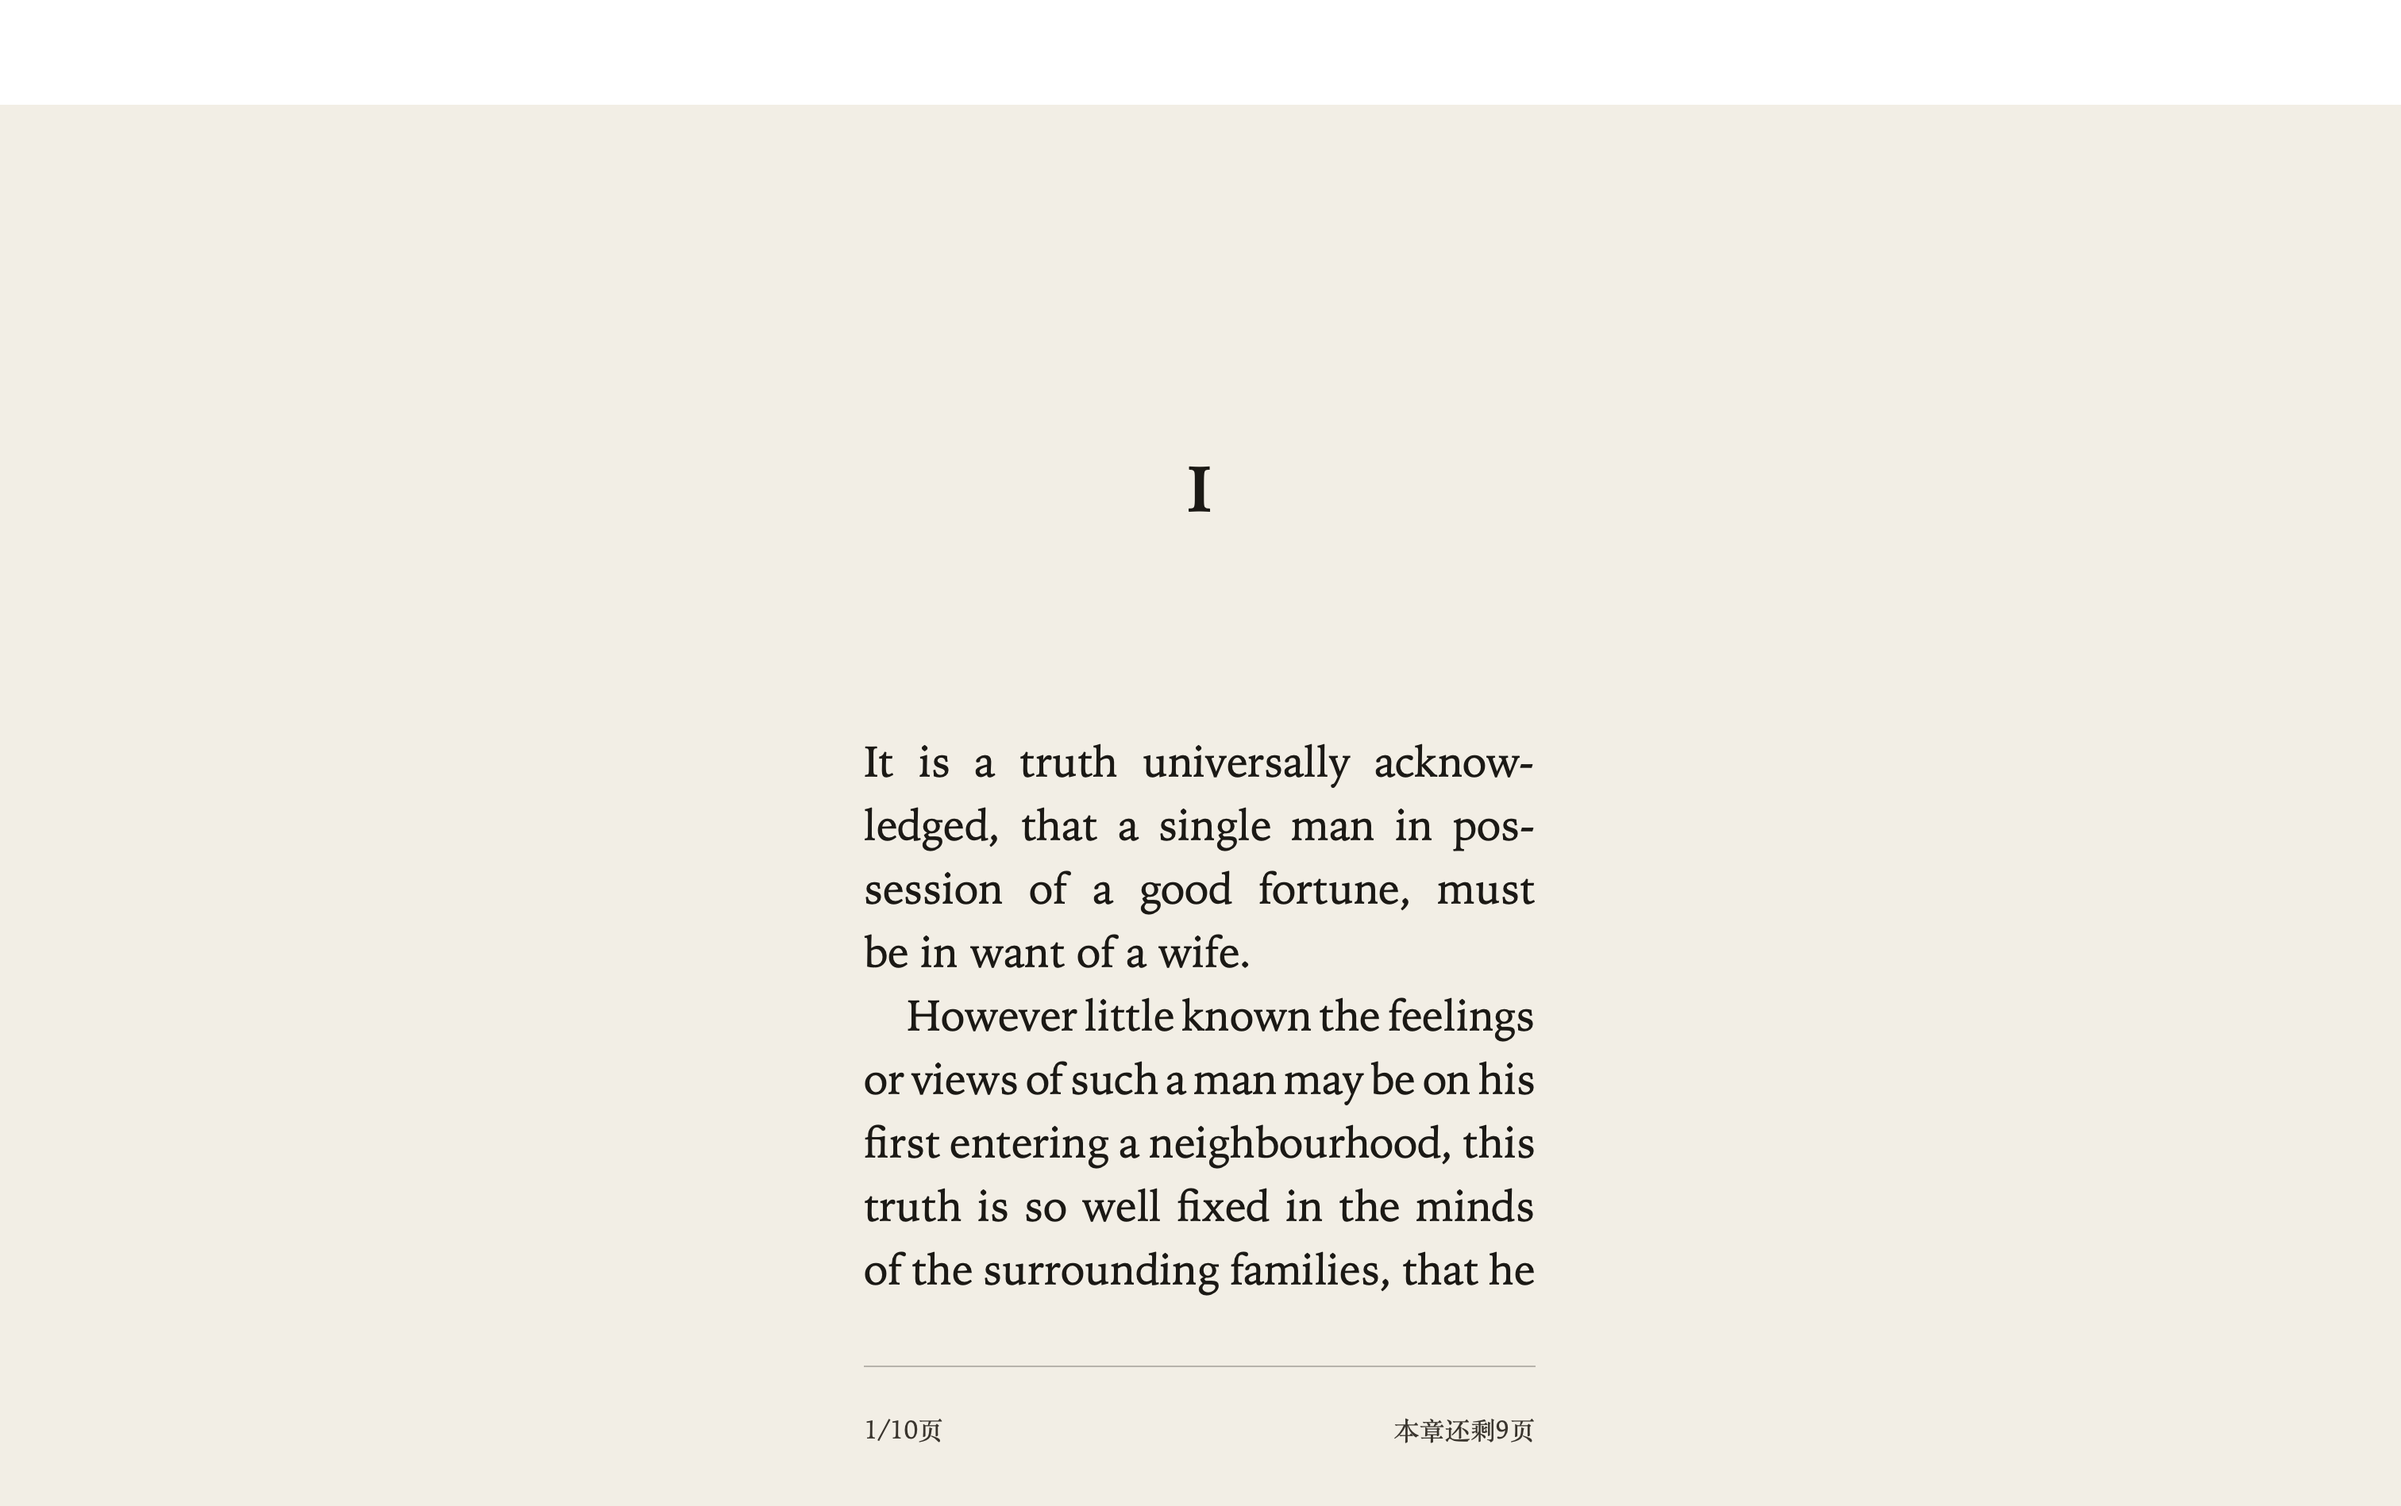
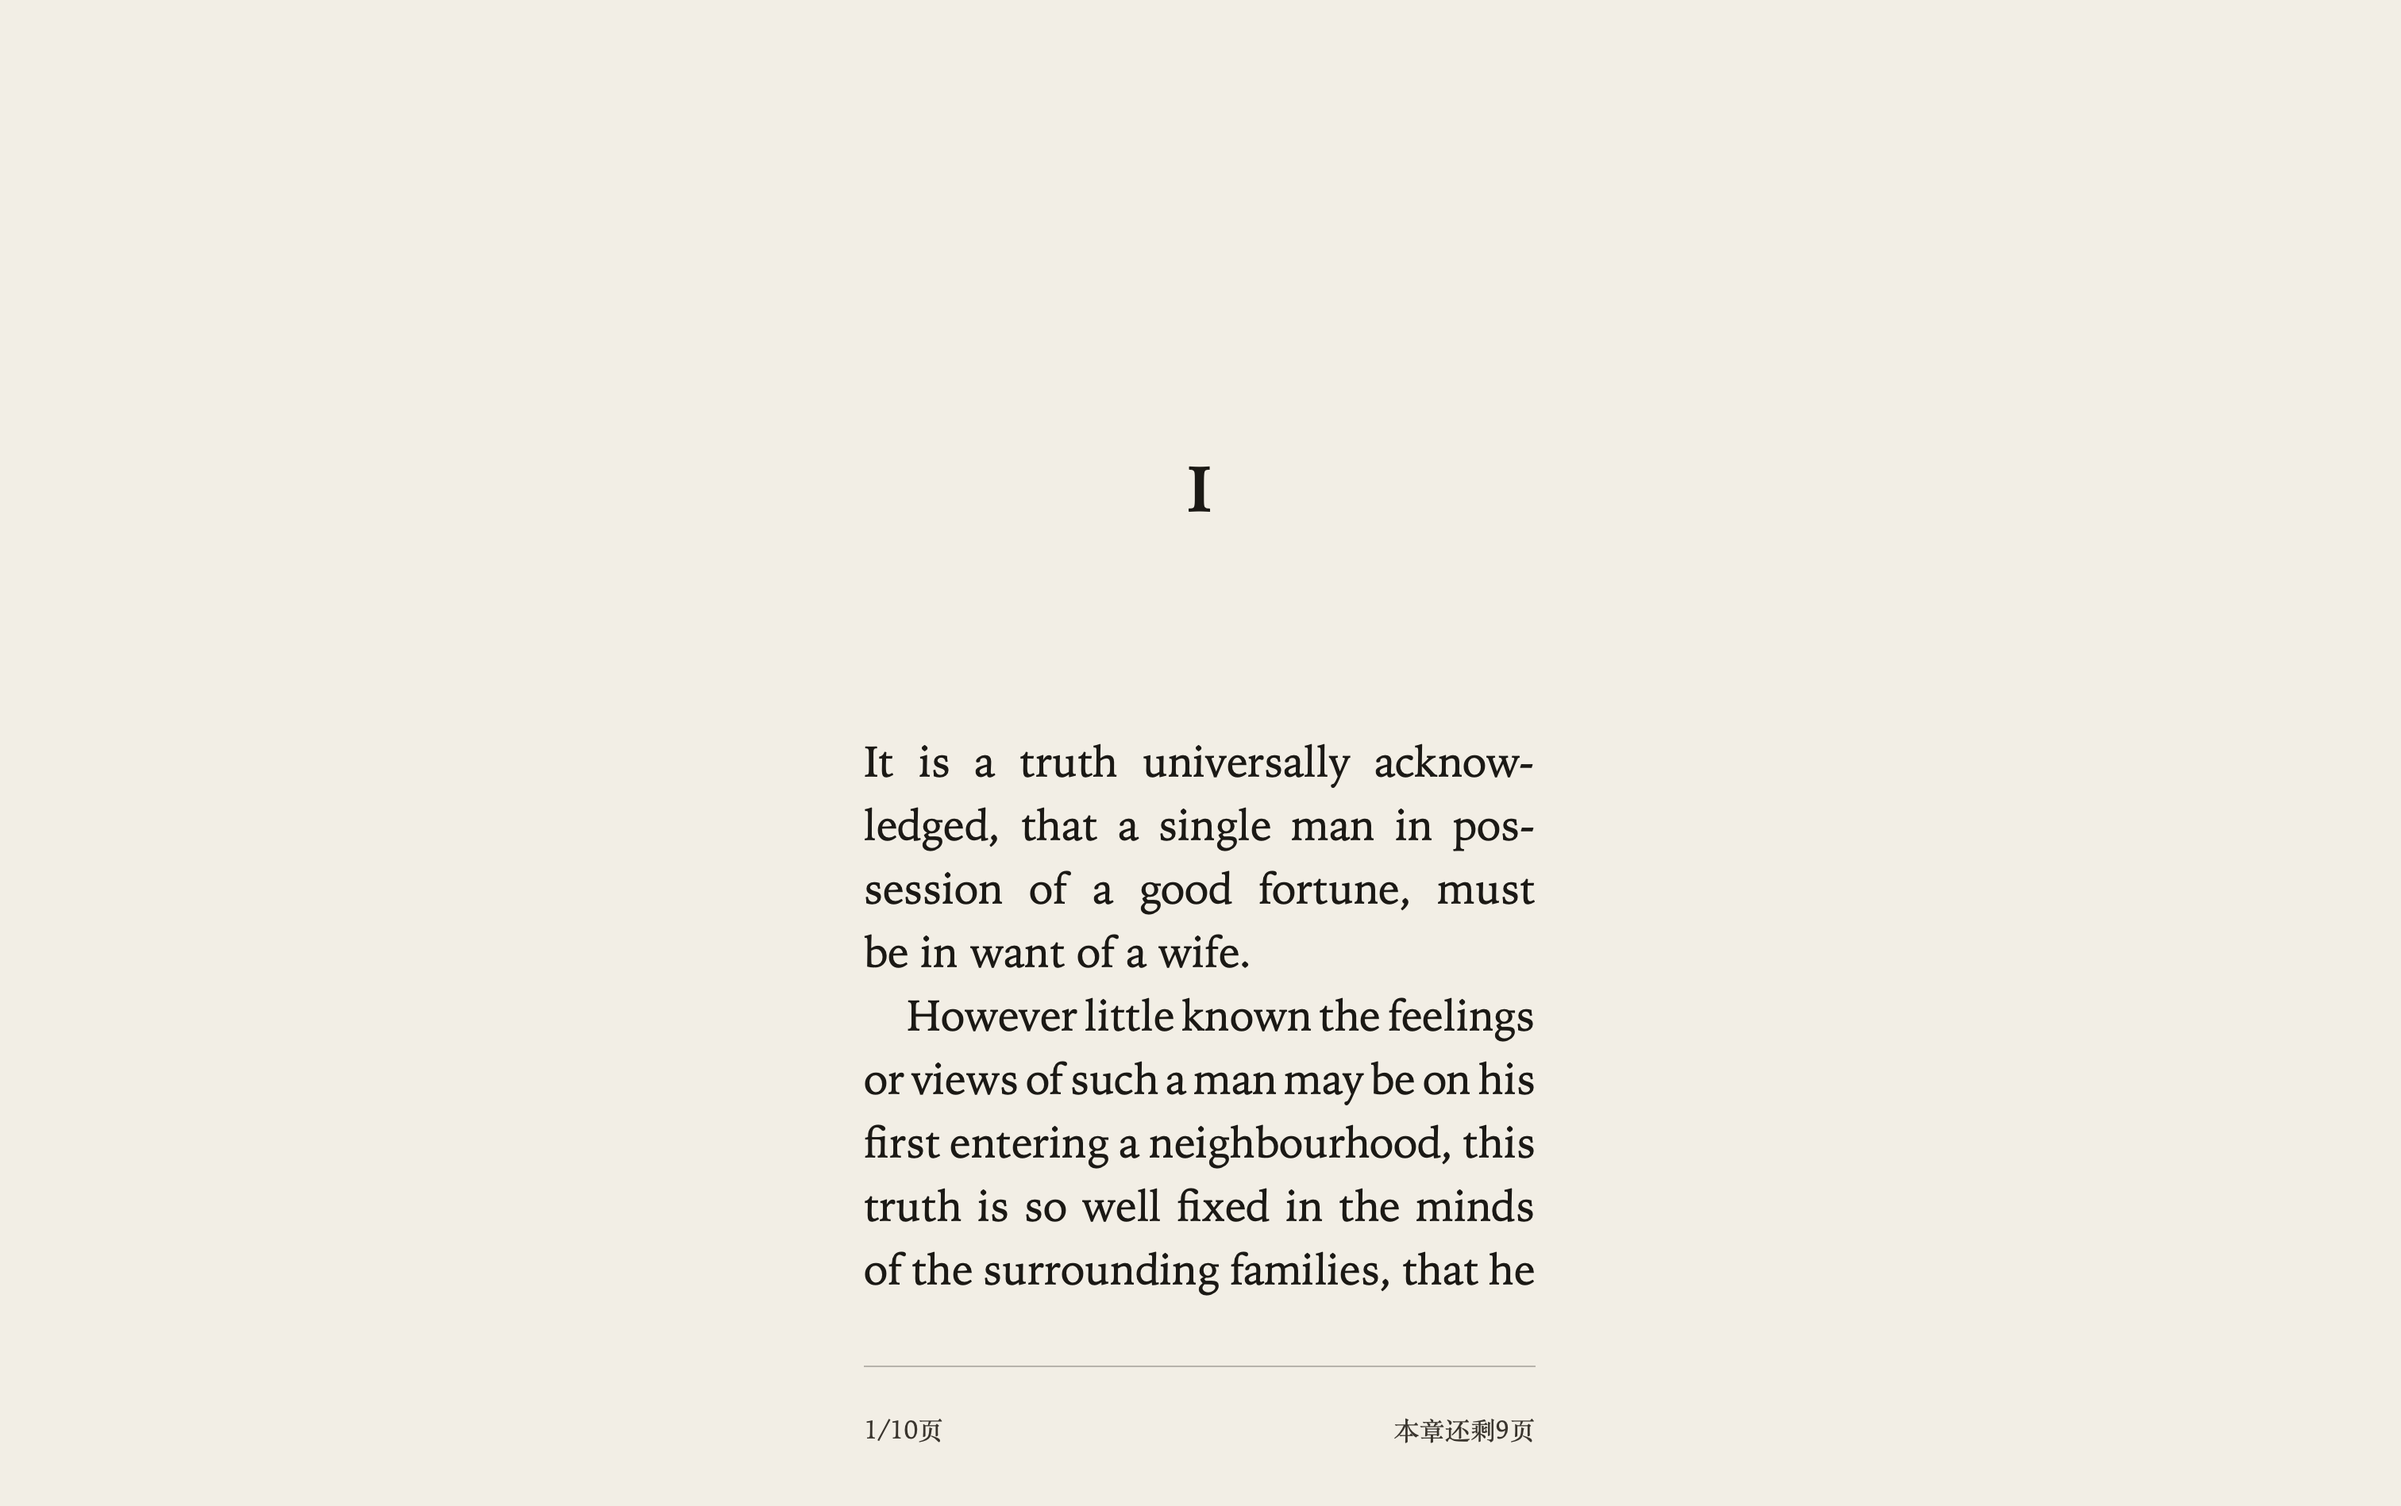
fix(shell): hide the full-screen toolbar
A window with a toolbar keeps that bar visible in full screen. It was 66 points of white across the top of the capture. The toolbar now hides with the menu bar, and it is hidden on entry so the resting page is paper to the edge.

Changed region(s): [[0.0, 0.0, 1.0, 0.0933]]

diff --git a/spikes/shell/src/chrome.rs b/spikes/shell/src/chrome.rs
@@ -1,10 +1,13 @@
 use std::cell::{Cell, RefCell};
 
+use nsh_platform_macos::objc2::ffi::class_addMethod;
 use nsh_platform_macos::objc2::rc::Retained;
-use nsh_platform_macos::objc2::{msg_send, MainThreadMarker, MainThreadOnly};
+use nsh_platform_macos::objc2::runtime::{AnyClass, AnyObject, Imp, Sel};
+use nsh_platform_macos::objc2::{msg_send, sel, MainThreadMarker, MainThreadOnly};
 use objc2_app_kit::{
-    NSColor, NSFont, NSScreen, NSTextField, NSTitlebarSeparatorStyle, NSToolbar, NSWindow,
-    NSWindowButton, NSWindowCollectionBehavior, NSWindowStyleMask, NSWindowToolbarStyle,
+    NSApplicationPresentationOptions, NSColor, NSFont, NSScreen, NSTextField,
+    NSTitlebarSeparatorStyle, NSToolbar, NSWindow, NSWindowButton, NSWindowCollectionBehavior,
+    NSWindowStyleMask, NSWindowToolbarStyle,
 };
 use objc2_foundation::{NSPoint, NSRect, NSSize, NSString};
 
@@ -47,6 +50,7 @@ pub struct Runtime {
     entering: Cell<bool>,
     field: RefCell<Option<Retained<NSTextField>>>,
     pub design_visible: Cell<(f64, f64)>,
+    toolbar_hidden: Cell<bool>,
 }
 
 impl Default for Runtime {
@@ -75,6 +79,7 @@ impl Default for Runtime {
             entering: Cell::new(false),
             field: RefCell::new(None),
             design_visible: Cell::new((0.0, 0.0)),
+            toolbar_hidden: Cell::new(false),
         }
     }
 }
@@ -194,6 +199,11 @@ pub fn sync(window: &NSWindow, rt: &Runtime, page: PageBox) {
     style_window(window, rt);
     let fullscreen = window.styleMask().contains(NSWindowStyleMask::FullScreen);
     if fullscreen {
+        if !rt.toolbar_hidden.replace(true) {
+            if let Some(toolbar) = window.toolbar() {
+                toolbar.setVisible(false);
+            }
+        }
         paint_lights(window, 1.0);
         rt.lights.set(1.0);
         rt.full.set(true);
@@ -202,6 +212,11 @@ pub fn sync(window: &NSWindow, rt: &Runtime, page: PageBox) {
         return;
     }
     if rt.full.replace(false) {
+        if rt.toolbar_hidden.replace(false) {
+            if let Some(toolbar) = window.toolbar() {
+                toolbar.setVisible(true);
+            }
+        }
         rt.settled.set(false);
         rt.stable.set(0);
         rt.attempts.set(0);
@@ -268,6 +283,7 @@ fn style_window(window: &NSWindow, rt: &Runtime) {
         window.setToolbar(Some(&toolbar));
         window.setToolbarStyle(NSWindowToolbarStyle::Unified);
     }
+    hide_toolbar_with_the_menu(window);
     if rt.styled.replace(true) {
         return;
     }
@@ -284,6 +300,38 @@ fn style_window(window: &NSWindow, rt: &Runtime) {
     let app = objc2_app_kit::NSApplication::sharedApplication(mtm);
     unsafe {
         let _: () = msg_send![&*app, activateIgnoringOtherApps: true];
+    }
+}
+
+unsafe extern "C-unwind" fn fullscreen_presentation(
+    _this: *mut AnyObject,
+    _cmd: Sel,
+    _window: *mut AnyObject,
+    proposed: usize,
+) -> usize {
+    proposed | (NSApplicationPresentationOptions::AutoHideToolbar.0 as usize)
+}
+
+fn hide_toolbar_with_the_menu(window: &NSWindow) {
+    let Some(delegate) = window.delegate() else {
+        return;
+    };
+    let class: *mut AnyClass = unsafe { msg_send![&*delegate, class] };
+    if class.is_null() {
+        return;
+    }
+    let types = c"Q@:@Q";
+    unsafe {
+        let imp: Imp = std::mem::transmute(
+            fullscreen_presentation
+                as unsafe extern "C-unwind" fn(*mut AnyObject, Sel, *mut AnyObject, usize) -> usize,
+        );
+        let _ = class_addMethod(
+            class,
+            sel!(window:willUseFullScreenPresentationOptions:),
+            imp,
+            types.as_ptr(),
+        );
     }
 }
 

diff --git a/.cursor/skills/verify-superreader/features/window-chrome.md b/.cursor/skills/verify-superreader/features/window-chrome.md
@@ -13,6 +13,7 @@ The reading window is the page. The traffic lights and the book title fade in to
 - `chrome-b-zhaohua-footer` shows the same footer on 朝花夕拾.
 - `chrome-b-fullscreen-footer` keeps that footer in full screen.
 - `chrome-b-fullscreen-page` scales the page to the screen height, centers it, keeps the footer on the measure, and leaves the CSS page at the windowed design width.
+- `chrome-b-fullscreen-paper` keeps the top 60 px of the full-screen capture paper, `#f3eee4`. The toolbar hides with the menu bar.
 - `chrome-b-hover` shows the traffic lights when the pointer is at the top of the window.
 
 ## How to get to it (user POV)
